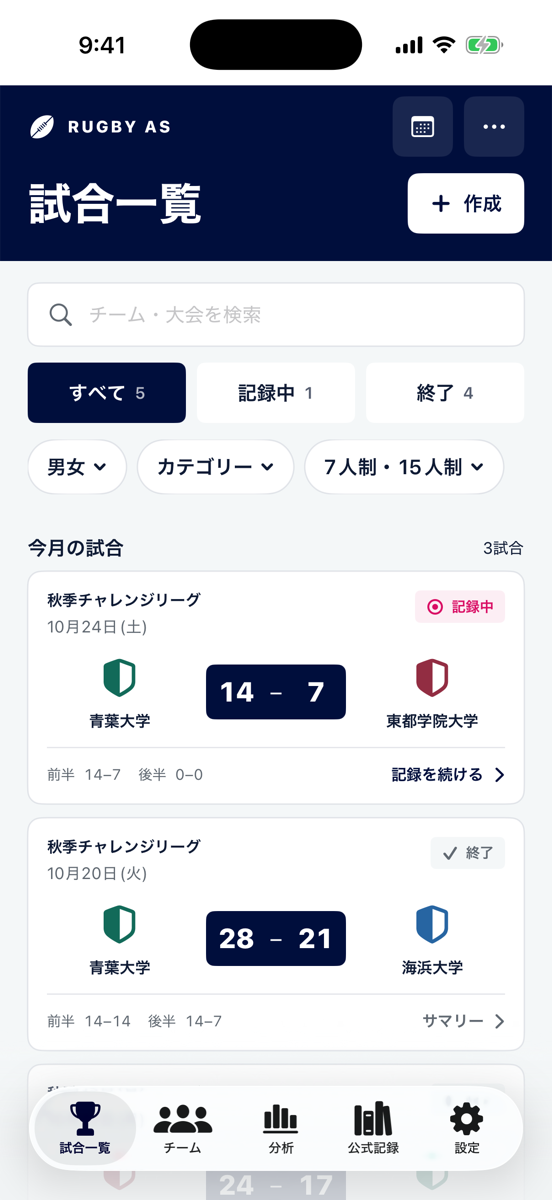
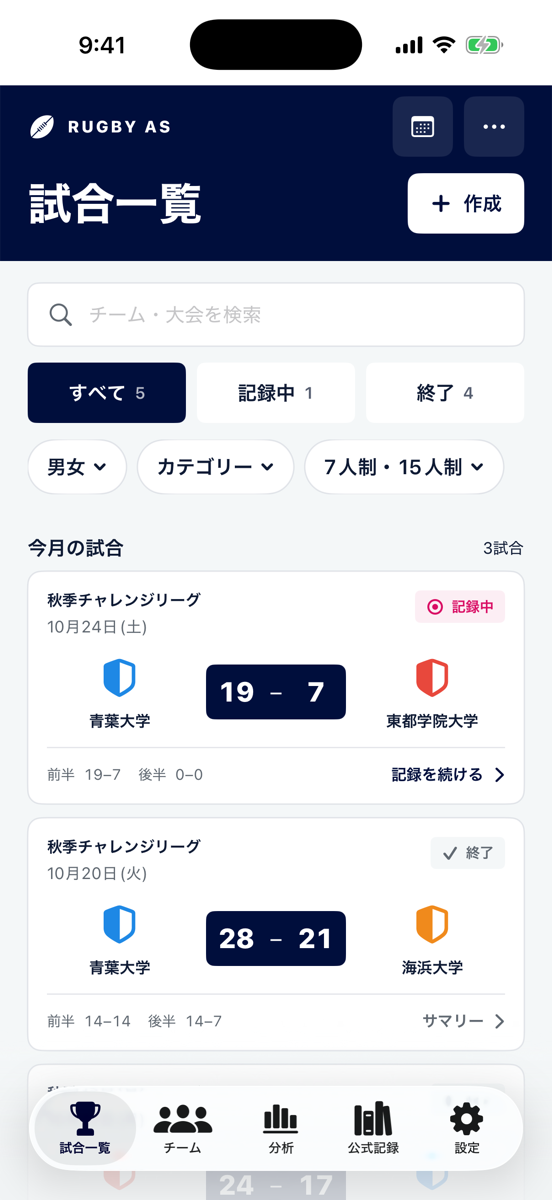
スクリーンショットを撮り直し(チームカラーと外れたキックを反映)

diff --git a/Rugby AS/RugbyDesignPreview.swift b/Rugby AS/RugbyDesignPreview.swift
@@ -150,10 +150,11 @@ private struct RugbyDesignRoutePreview: View {
 private enum RugbyDesignFixture {
     static func insert(into context: ModelContext) {
         let teams = [
-            Team(name: "青葉大学", colorHex: "#126A59", category: "大学"),
-            Team(name: "東都学院大学", colorHex: "#922D42", category: "大学"),
-            Team(name: "海浜大学", colorHex: "#2765A2", category: "大学"),
-            Team(name: "北星ラグビークラブ", colorHex: "#C48A2B", category: "クラブ")
+            // どの試合にも出る青葉大学を青、相手をオレンジ・赤・黄緑にして、対戦の色が見分けやすいようにする
+            Team(name: "青葉大学", colorHex: "#1E88E5", category: "大学"),
+            Team(name: "東都学院大学", colorHex: "#E8483C", category: "大学"),
+            Team(name: "海浜大学", colorHex: "#F08A1C", category: "大学"),
+            Team(name: "北星ラグビークラブ", colorHex: "#8CC63F", category: "クラブ")
         ]
         teams.forEach { context.insert($0) }
 
@@ -194,7 +195,7 @@ private enum RugbyDesignFixture {
         // Latest is a partial recording; all other matches carry the real finish marker.
         let fixtures: [(home: Int, away: Int, date: Date, homeTries: Int, homeConversions: Int, homePenalties: Int,
                         awayTries: Int, awayConversions: Int, awayPenalties: Int, finished: Bool)] = [
-            (0, 1, date(in: month, day: 24), 2, 2, 0, 1, 1, 0, false),
+            (0, 1, date(in: month, day: 24), 3, 2, 0, 1, 1, 0, false),
             (0, 2, date(in: month, day: 20), 4, 4, 0, 3, 3, 0, true),
             (1, 0, date(in: month, day: 12), 3, 3, 1, 3, 1, 0, true),
             (0, 3, date(in: previousMonth, day: 24), 3, 2, 0, 3, 0, 0, true),
